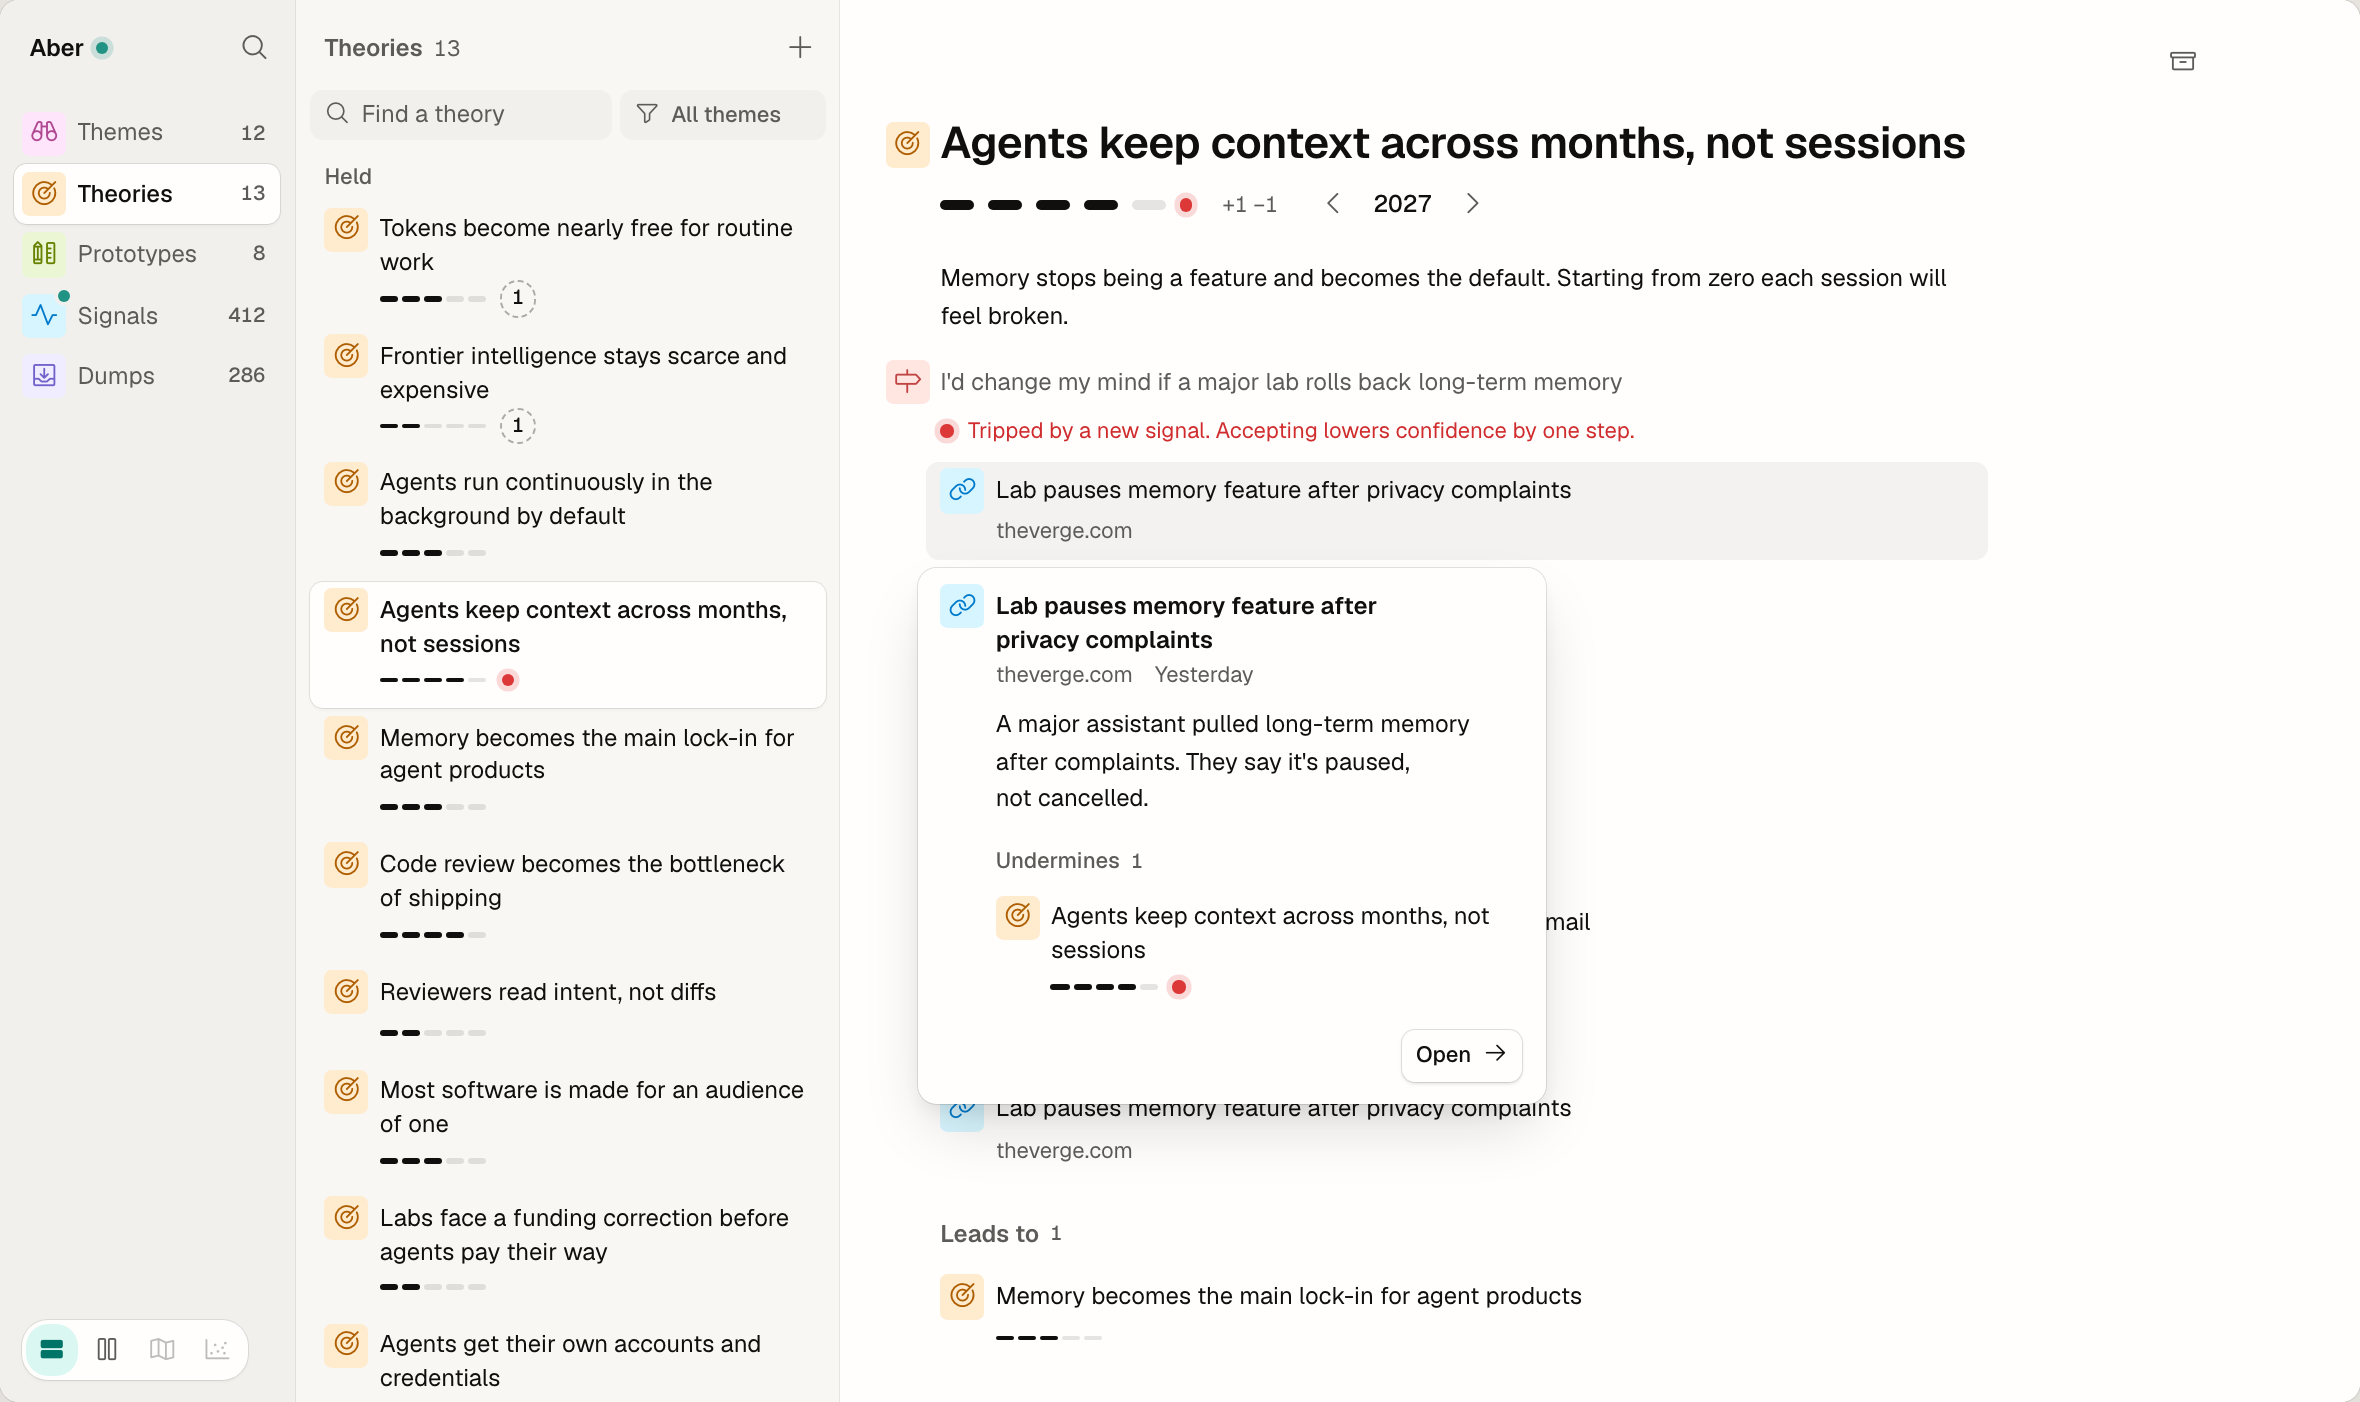
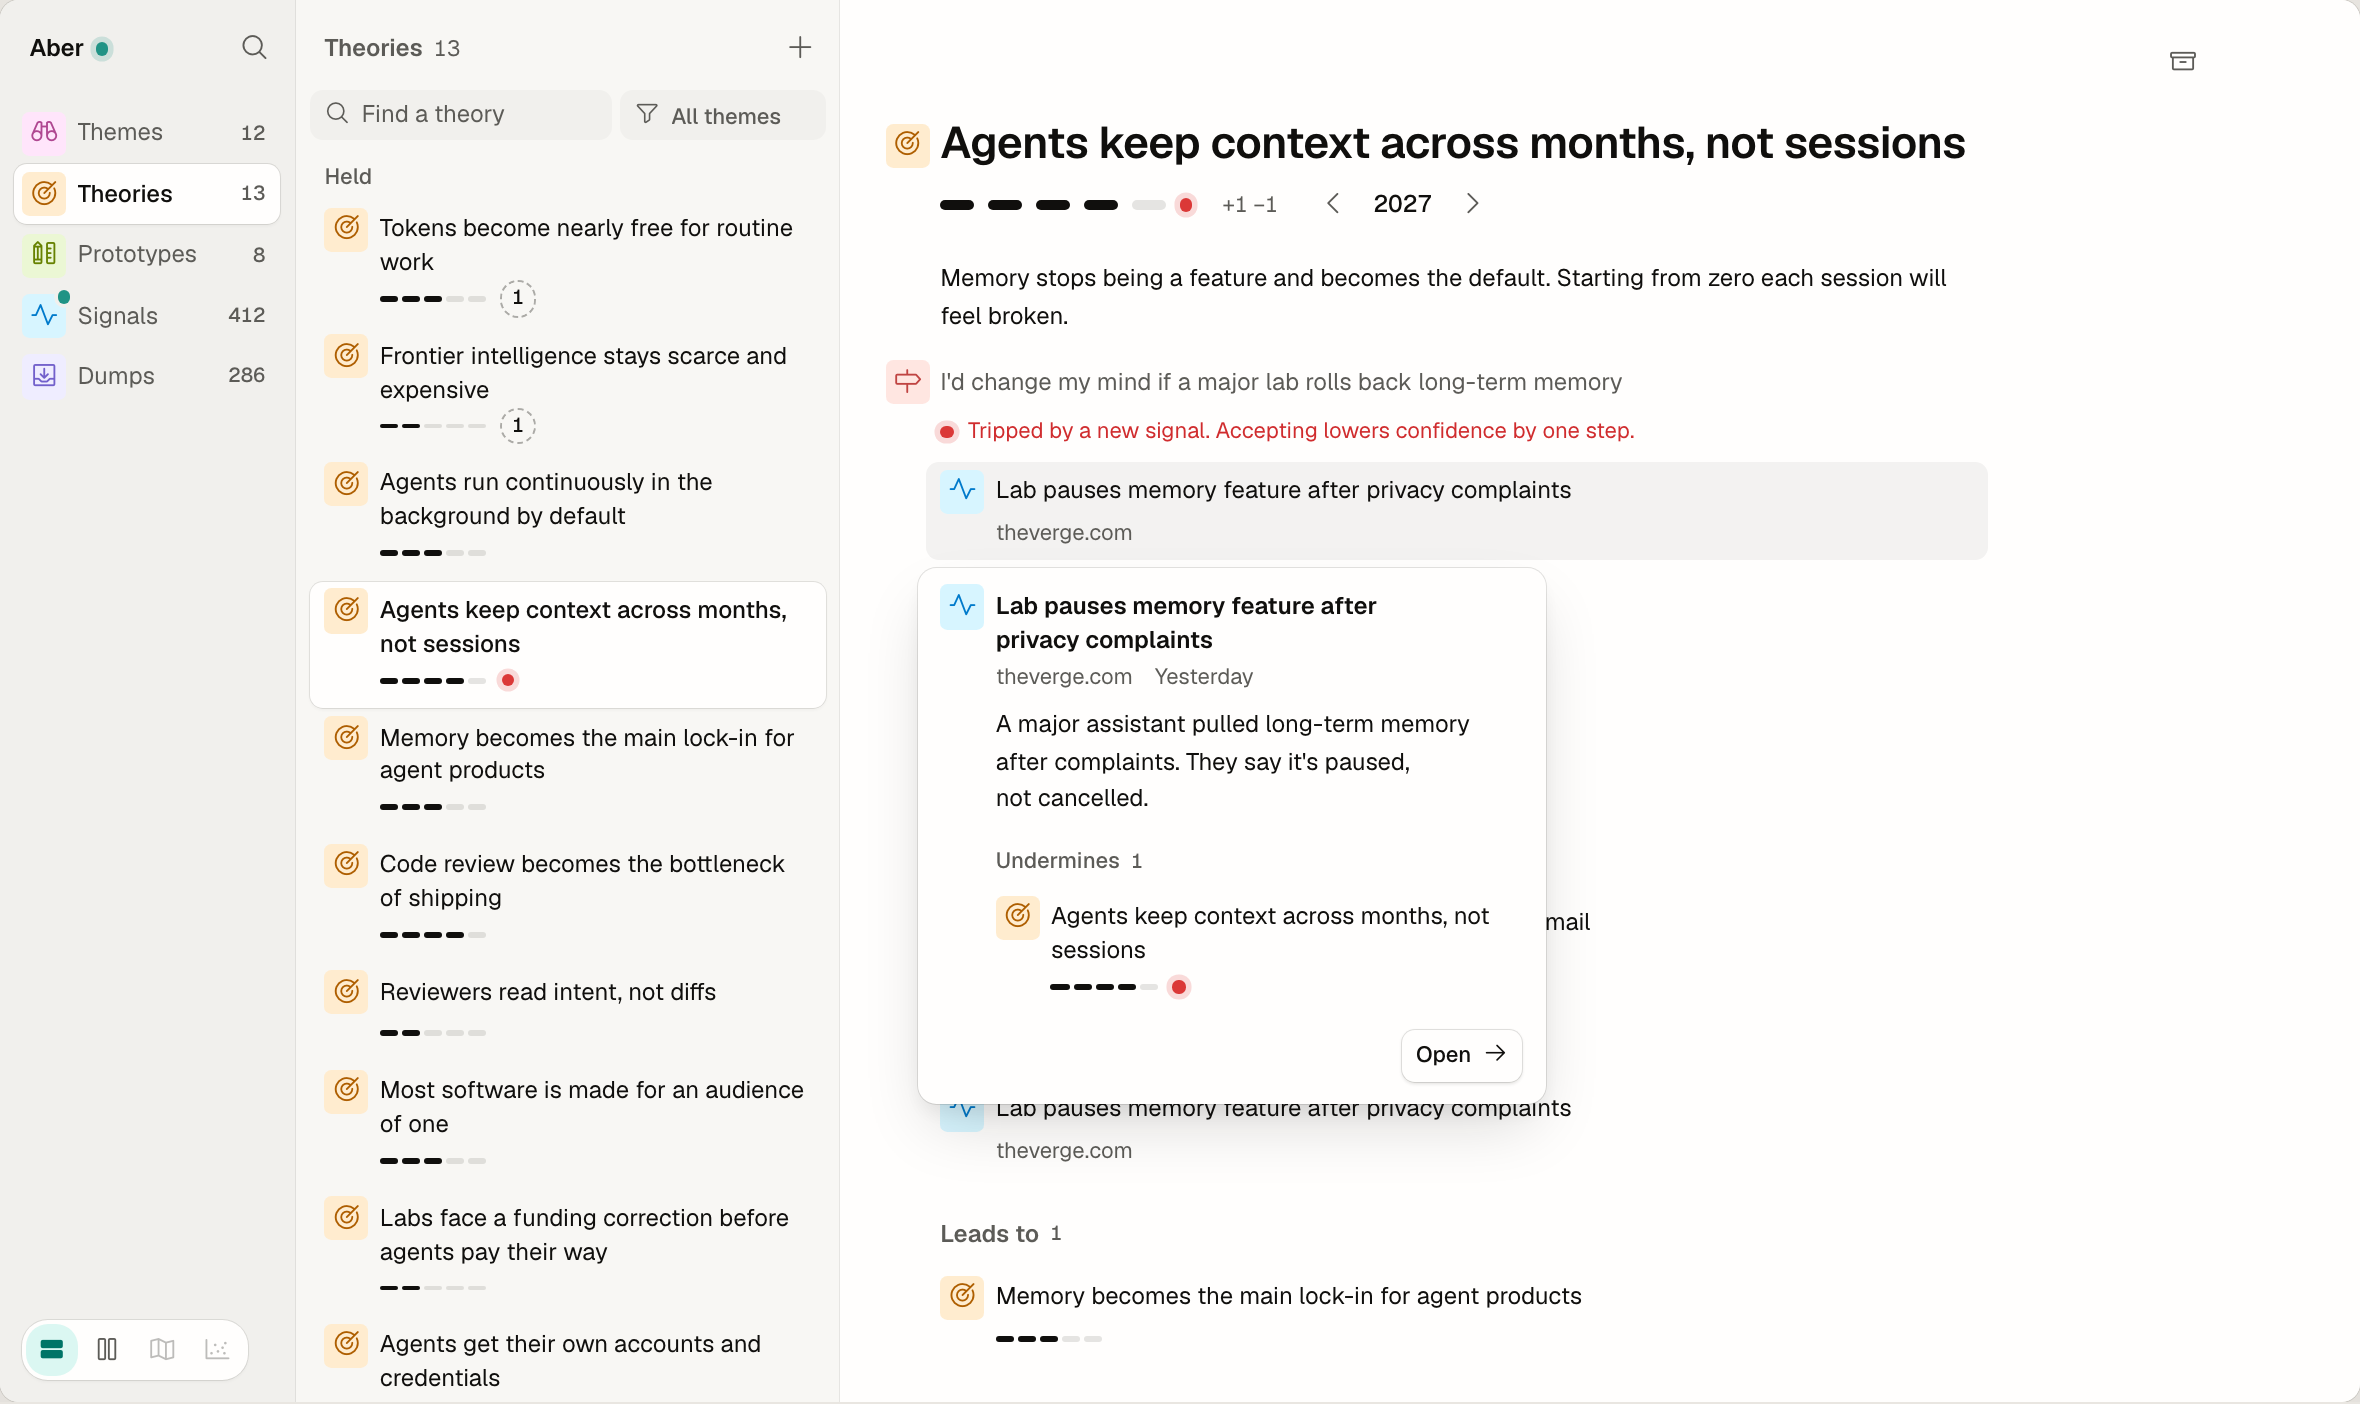
Grammar 06: signals use the signal glyph; equal tile sizes

diff --git a/design/grammar/06-objects/objects.js b/design/grammar/06-objects/objects.js
@@ -5,7 +5,6 @@
   /* ═══ Content (from nav/nav.js, plus kinds, notes, suggestions) ═══════════════════ */
   const ICON = { briefing: "newspaper", theme: "binoculars", theory: "target", prototype: "pencil-ruler", signal: "pulse", dump: "tray-arrow-down", tripwire: "signpost", suggestion: "sparkle" };
   const NAME = { briefing: ["Briefing"], theme: ["Themes", "Theme"], theory: ["Theories", "Theory"], prototype: ["Prototypes", "Prototype"], signal: ["Signals", "Signal"], dump: ["Dumps", "Dump"] };
-  const SK = { link: "link", voice: "waveform", note: "text-align-left" };   // a signal's kind glyph replaces Pulse (DI-010)
   const RAIL = ["theme", "theory", "prototype", "signal", "dump"];
   const DAYS = ["Today", "Yesterday", "Monday 2 Nov", "Sunday 1 Nov"];
   const OLDER = { signal: [["October", 288], ["September", 109]], dump: [["October", 201], ["September", 78]] };
@@ -113,7 +112,8 @@
 
   /* ═══ Atoms ═══════════════════════════════════════════════════════════════════ */
   const esc = s => String(s).replace(/"/g, "&quot;");
-  const glyphOf = o => o.kind === "signal" ? SK[o.k || "link"] : ICON[o.kind];
+  // Every object shows its type glyph on its tile; a signal is always Pulse (Maggie, 4 Nov). Kind, if shown, is text in the key value.
+  const glyphOf = o => ICON[o.kind];
   const tile = (type, icon, cls = "") => `<span class="g${cls ? ` ${cls}` : ""}" data-type="${type}"><i class="ph ph-${icon}" aria-hidden="true"></i></span>`;
   const tileOf = (o, cls = "") => tile(o.kind, glyphOf(o), `${o.draft ? "draft" : ""} ${cls}`.trim());
   const dot = (kind, label) => `<span class="ob-dot ${kind}" role="img" aria-label="${label}" title="${label}"></span>`;
@@ -182,7 +182,7 @@
   const tripLine = (o, rung) => {
     if (!o.trip) return "";
     const by = o.challenge && O[o.challenge];
-    if (rung === "peek") return `<div class="ob-attach${by ? " tripped" : ""}">${tile("tripwire", ICON.tripwire, "sm")}<span>${by ? `Tripped by <b>${by.name}</b>` : o.trip}</span></div>`;
+    if (rung === "peek") return `<div class="ob-attach${by ? " tripped" : ""}">${tile("tripwire", ICON.tripwire)}<span>${by ? `Tripped by <b>${by.name}</b>` : o.trip}</span></div>`;
     return `<div class="ob-trip${by ? " tripped" : ""}"><div class="ob-hang">${tile("tripwire", ICON.tripwire)}<div class="ob-col">
         <p class="ob-prose">${o.trip}</p>
         ${by ? `<div class="ob-decide-box"><div class="ob-why">${dot("neg", "Tripped")}<span>Tripped by a new signal. Accepting lowers confidence by one step.</span></div>${row(by, { omit: "when" })}
@@ -191,7 +191,7 @@
   };
   const sugBlock = (o, rung) => {
     const list = SUG[o.id] || []; if (!list.length) return "";
-    if (rung === "peek") return `<div class="ob-attach sug">${tile("suggestion", ICON.suggestion, "sm draft")}<span>${list.length === 1 ? `Suggested ${list[0].st === "+" ? "support" : "undermining"}: <b>${O[list[0].s].name}</b>` : `${list.length} suggestions`}</span></div>`;
+    if (rung === "peek") return `<div class="ob-attach sug">${tile("suggestion", ICON.suggestion, "draft")}<span>${list.length === 1 ? `Suggested ${list[0].st === "+" ? "support" : "undermining"}: <b>${O[list[0].s].name}</b>` : `${list.length} suggestions`}</span></div>`;
     return list.map(x => `<div class="ob-sug"><div class="ob-hang">${tile("suggestion", ICON.suggestion, "draft")}<div class="ob-col">
         <div class="ob-sug-head"><span class="ob-stance"><i class="ph ph-arrow-${x.st === "+" ? "up" : "down"}" aria-hidden="true"></i>Suggested ${x.st === "+" ? "support" : "undermining"}</span></div>
         ${row(O[x.s], { omit: "when" })}

diff --git a/design/grammar/06-objects/index.html b/design/grammar/06-objects/index.html
@@ -48,7 +48,7 @@
   <h2>The object grammar</h2>
   <p>One anatomy, the same slots in the same order at every rung. The tile hangs in its own column; everything else shares the name's left edge (the two guides below).</p>
   <ol class="rules">
-    <li><b>1 Tile:</b> the type's glyph on its tile. A signal shows its kind (link, voice, note) on the signal tile. No type word is ever written.</li>
+    <li><b>1 Tile:</b> the type's glyph on its tile, the same 24 tile at every level. A signal is always Pulse; its kind, if shown, is text in the key value. No type word is ever written.</li>
     <li><b>2 Name:</b> wraps (two lines in rows, three in cards, in full in a peek or full view).</li>
     <li><b>3 One key value:</b> the attribute that tells this object apart from its neighbours. A draft shows "Draft" here until accepted.</li>
     <li><b>4 Status:</b> one mark, always directly after the key value: challenge (red) beats a pending suggestion (dashed count) beats new (jade). The peek and full view say what the mark means.</li>
@@ -67,7 +67,7 @@
       <tr><td>Theme</td><td>Theory count, or "No theories yet"</td><td>Tile, name, theory count, new</td><td>–</td><td>Signal count, new count, top 3 theories</td><td>Theories as cards, signals by day</td><td>Signal count from rows and section headers</td></tr>
       <tr><td>Theory</td><td>Confidence</td><td>Tile, claim, confidence, one status mark</td><td>Horizon (By 2028)</td><td>Evidence balance, horizon, note (3 lines), tripwire or suggestion line, top 3 supporting signals</td><td>Confidence setter, year stepper, note, tripwire, suggestions, themes, supports, undermines, rival, follows from, leads to, prototypes</td><td>Evidence balance and prototype count from cards; pending badge and challenge dot side by side (now one slot)</td></tr>
       <tr><td>Prototype</td><td>Status (glyph and word)</td><td>Tile, name, status</td><td>–</td><td>Body (3 lines), theories it tests</td><td>Body, tests</td><td>"Tests N"; the type-word chip; status inside status groups</td></tr>
-      <tr><td>Signal</td><td>Source</td><td>Kind tile, gist, source, new</td><td>Captured day</td><td>Day, note, theories it bears on</td><td>Note (or Add a note), supports, undermines, Add theory, themes, File in theme, came from</td><td>Day at rest, theme chips on rows, the word "Signal", the Source/Came from table</td></tr>
+      <tr><td>Signal</td><td>Source</td><td>Tile, gist, source, new</td><td>Captured day</td><td>Day, note, theories it bears on</td><td>Note (or Add a note), supports, undermines, Add theory, themes, File in theme, came from</td><td>Day at rest, theme chips on rows, the word "Signal", the Source/Came from table</td></tr>
       <tr><td>Dump</td><td>Kind and time</td><td>Tile, first line, kind and time, failed</td><td>Day</td><td>Day, length, text (3 lines), signals made</td><td>Via, full text, reply, signals, drafts</td><td>"Made N"; via from everything but full; the date inside day groups</td></tr>
       <tr><td>Tripwire</td><td>Its sentence</td><td>Red dot on the host when tripped</td><td>–</td><td>One line: the sentence, or "Tripped by" the signal</td><td>The sentence, the tripping signal, Dismiss | Accept</td><td>–</td></tr>
       <tr><td>Suggestion</td><td>What it proposes</td><td>Dashed count on the host</td><td>–</td><td>One line: the proposal</td><td>Dashed block: stance, the signal as a row, why, Dismiss | Accept</td><td>Agent and model (rare, history only)</td></tr>

diff --git a/design/grammar/06-objects/objects.css b/design/grammar/06-objects/objects.css
@@ -115,8 +115,9 @@
 .ob-more { padding-top: 2px; font-size: var(--fs-label); color: var(--ink-2); }
 .ob-pk-foot { display: flex; justify-content: flex-end; }
 /* Attached objects, one line in a peek */
-.ob-attach { display: grid; grid-template-columns: auto minmax(0, 1fr); align-items: start; gap: var(--gap-icon); font-size: var(--fs-label); line-height: var(--lh-ui); color: var(--ink-2); }
-.ob-attach > .g { margin-top: calc((var(--fs-label) * var(--lh-ui) - var(--icon-label) - 4px) / 2); }
+/* Same 24 tile as every other row in the peek; text at body size beside it */
+.ob-attach { display: grid; grid-template-columns: var(--tile) minmax(0, 1fr); align-items: start; gap: var(--gap-icon); font-size: var(--fs-body); line-height: var(--lh-ui); color: var(--ink-2); }
+.ob-attach > .g { margin-top: calc((var(--line-ui) - var(--tile)) / 2); }
 .ob-attach > span { display: -webkit-box; -webkit-box-orient: vertical; -webkit-line-clamp: 2; overflow: hidden; }
 .ob-attach b { font-weight: 500; color: var(--ink); }
 .ob-attach.tripped > span { color: var(--neg); }

diff --git a/design/grammar/RULES.md b/design/grammar/RULES.md
@@ -310,7 +310,7 @@ Every object follows one anatomy and appears at three rungs: a **preview** where
 
 | Slot | What | Row | Card | Chip | Peek | Full |
 | --- | --- | --- | --- | --- | --- | --- |
-| 1 Tile | Type glyph on its 24 tile; a signal shows its kind glyph on the signal tile. No type word. | ● | ● | ● (flush) | ● | ● |
+| 1 Tile | Type glyph on its 24 tile, the same size for every row, line and header within one peek or full view; a signal is always Pulse (kind, if shown, is text in the key value). No type word. | ● | ● | ● (flush) | ● | ● |
 | 2 Name | List name 13/400; card and peek 13/600; title 24/600 | 2 lines | 3 lines | 1 line | In full | In full |
 | 3 Key value | The one attribute that tells it from its neighbours; "Draft" for drafts | ● | ● | – | ● | ● (editable) |
 | 4 Status | One mark, directly after the key value: challenge (red dot) > pending suggestion (dashed count) > new (jade dot) | ● | ● | – | ● | ● |
@@ -329,7 +329,7 @@ Every object follows one anatomy and appears at three rungs: a **preview** where
 | Theme | Theory count ("No theories yet") | Tile, name, theory count, new | – | Signal count, new count, top 3 theories | Theories as cards, signals by day |
 | Theory | Confidence | Tile, claim, confidence, one status mark | By year | Evidence balance, horizon, note (3 lines), tripwire or suggestion line, top 3 supports | Confidence setter, year stepper, note, tripwire, suggestions, themes, supports, undermines, rival, follows from, leads to, prototypes |
 | Prototype | Status (glyph and word) | Tile, name, status | – | Body (3 lines), theories it tests | Body, tests |
-| Signal | Source | Kind tile, gist, source, new | Captured day | Day, note, theories it bears on | Note, supports, undermines, themes, came from |
+| Signal | Source | Tile, gist, source, new | Captured day | Day, note, theories it bears on | Note, supports, undermines, themes, came from |
 | Dump | Kind and time | Tile, first line, kind and time, failed | Day | Day, length, text (3 lines), signals made | Via, text, reply, signals, drafts |
 | Tripwire | Its sentence | Red dot on the host when tripped | – | One line (red when tripped) | Sentence, tripping signal, Dismiss \| Accept |
 | Suggestion | What it proposes | Dashed count on the host | – | One line | Dashed block: stance, signal row, why, Dismiss \| Accept |

diff --git a/design/grammar/PRIOR-DECISIONS.md b/design/grammar/PRIOR-DECISIONS.md
@@ -383,3 +383,5 @@ Compiled 4 Nov 2026 from everything on this branch before the grammar jigs. Read
 4 Nov 2026 (Maggie, nav): peeks are tethered cards; Briefing is the home of the default view's main area (shown when no item is selected), not a rail entry; rail order refined → raw (Themes, Theories, Prototypes, Signals, Dumps); Theories and Signals can be filtered by theme; no Unseen group in Signals; the view switcher sits at the rail foot.
 
 4 Nov 2026 (Maggie, 05-controls): the secondary button is white with a hairline (surface, the chip's hairline, the button shadow); text fields are filled (a sunk well, no edge; surface + hairline and the ring on focus); the one destructive confirmation (Delete dump) is ink like every primary, red stays for challenge and down. The anatomy, seven-state matrix, motion and label rules in RULES.md section 05 are the default on every grammar page.
+
+4 Nov 2026 (Maggie): signals always show the signal glyph (Pulse) on their tile, never a kind glyph; kind, if shown, is text in the key value. Supersedes the DI-010 "kind glyph in the header" rule. Within one peek or full view every tile is the same size (24).
